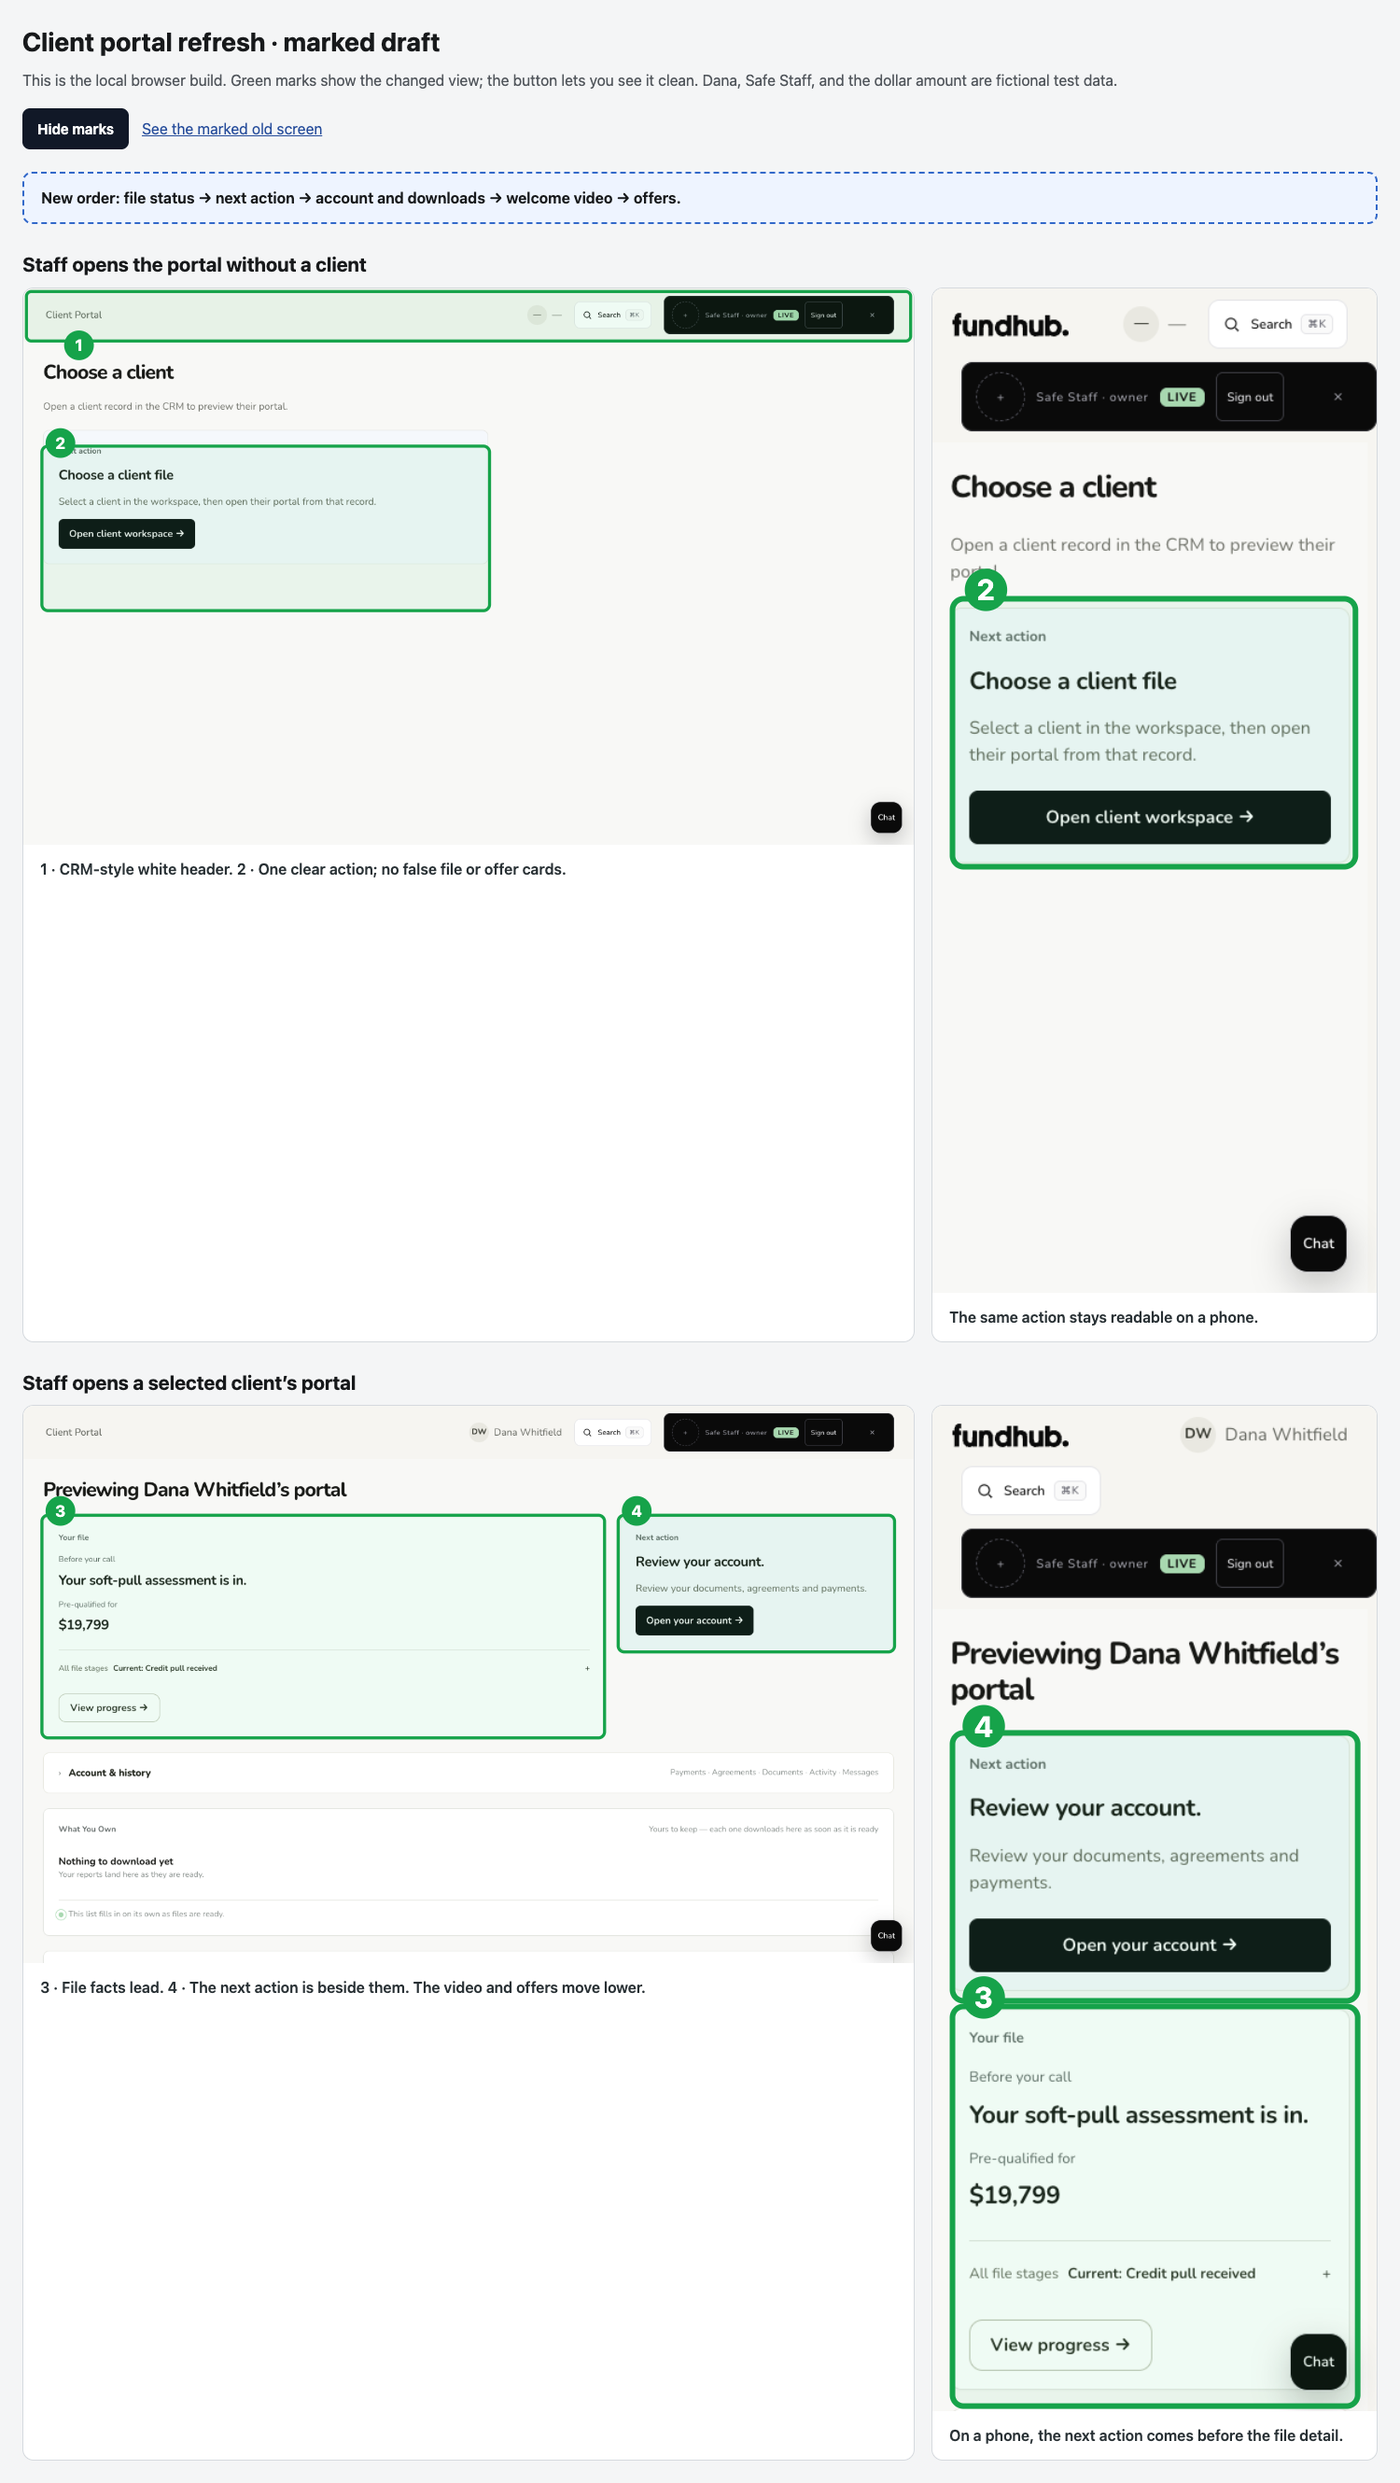
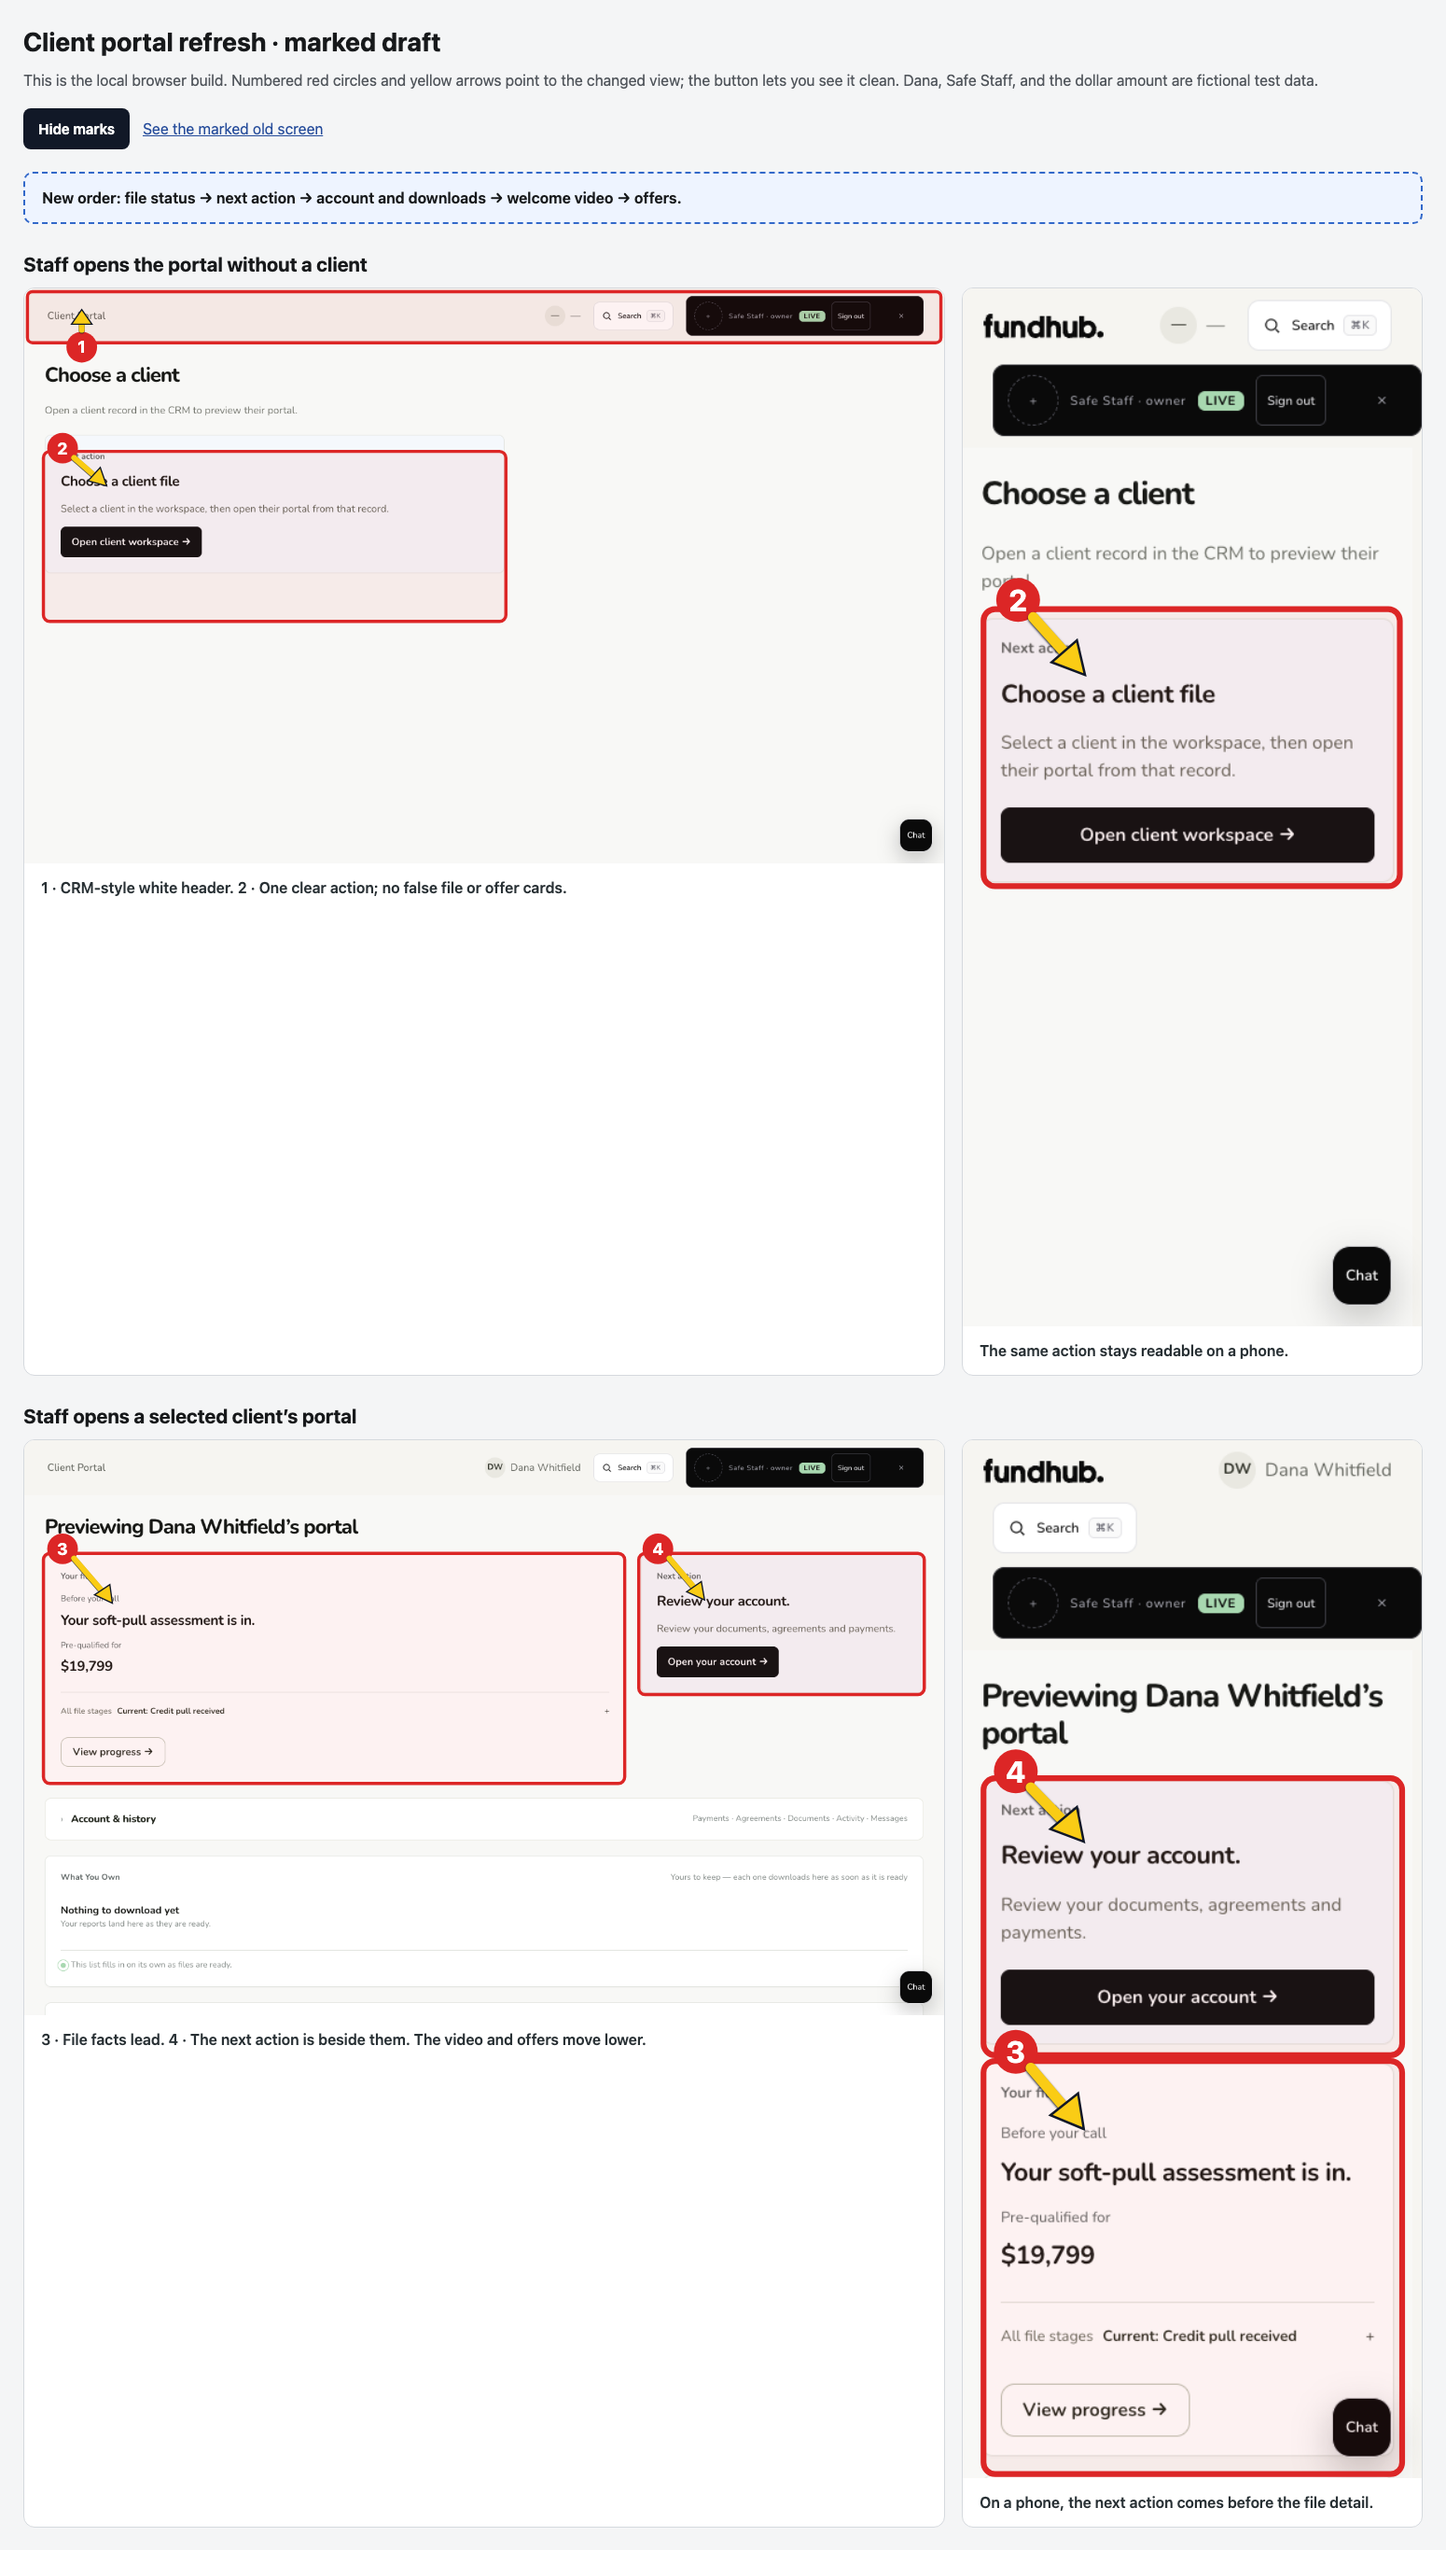
Fix portal no-funding welcome and mark draft review
Keep the honest no-funding welcome visible, align staff preview greeting checks with the draft, and annotate the existing fictional review screenshot with numbered red circles and yellow arrows.

diff --git a/ops/workflows/client-portal-refresh-2026-10-30/green-draft.html b/ops/workflows/client-portal-refresh-2026-10-30/green-draft.html
@@ -12,7 +12,9 @@
   figure{margin:0;background:white;border:1px solid #d5d9de;border-radius:12px;overflow:hidden}
   .shot{position:relative;line-height:0}.shot img{width:100%;display:block}
   .shot svg{position:absolute;inset:0;width:100%;height:100%;overflow:visible}
-  .good{fill:rgba(34,197,94,.07);stroke:#16a34a;stroke-width:5}.num{fill:#16a34a}
+  .good{fill:rgba(220,38,38,.06);stroke:#dc2626;stroke-width:5}.num{fill:#dc2626}
+  .arrow{fill:none;stroke:#facc15;stroke-width:9;stroke-linecap:round;filter:drop-shadow(0 1px 1px #111827)}
+  .arrowhead{fill:#facc15;stroke:#111827;stroke-width:2}
   .numtext{fill:white;font:700 26px system-ui;text-anchor:middle;dominant-baseline:central}
   figcaption{padding:14px 18px;font-weight:600;color:#293135}
   .hide-marks svg{display:none}
@@ -20,25 +22,25 @@
 </style>
 <main>
   <h1>Client portal refresh · marked draft</h1>
-  <p>This is the local browser build. Green marks show the changed view; the button lets you see it clean. Dana, Safe Staff, and the dollar amount are fictional test data.</p>
+  <p>This is the local browser build. Numbered red circles and yellow arrows point to the changed view; the button lets you see it clean. Dana, Safe Staff, and the dollar amount are fictional test data.</p>
   <div class="tools"><button id="toggle" type="button">Hide marks</button><a href="red-draft.html">See the marked old screen</a></div>
   <div class="order">New order: file status → next action → account and downloads → welcome video → offers.</div>
   <h2>Staff opens the portal without a client</h2>
   <div class="grid">
     <figure><div class="shot"><img src="page_client_portal-staff-choose-1440.png" alt="Desktop staff portal with choose-client action">
-      <svg viewBox="0 0 1440 900" aria-hidden="true"><rect class="good" x="5" y="5" width="1430" height="80" rx="8"/><circle class="num" cx="90" cy="92" r="24"/><text class="numtext" x="90" y="92">1</text><rect class="good" x="30" y="255" width="724" height="266" rx="10"/><circle class="num" cx="60" cy="250" r="24"/><text class="numtext" x="60" y="250">2</text></svg>
+      <svg viewBox="0 0 1440 900" aria-hidden="true"><rect class="good" x="5" y="5" width="1430" height="80" rx="8"/><circle class="num" cx="90" cy="92" r="24"/><text class="numtext" x="90" y="92">1</text><path class="arrow" d="M90 65 L90 42"/><path class="arrowhead" d="M90 33 L74 56 L106 56 Z"/><rect class="good" x="30" y="255" width="724" height="266" rx="10"/><circle class="num" cx="60" cy="250" r="24"/><text class="numtext" x="60" y="250">2</text><path class="arrow" d="M78 265 L117 299"/><path class="arrowhead" d="M129 309 L100 301 L119 280 Z"/></svg>
     </div><figcaption>1 · CRM-style white header. 2 · One clear action; no false file or offer cards.</figcaption></figure>
     <figure><div class="shot"><img src="page_client_portal-staff-choose-390.png" alt="Phone staff portal with choose-client action">
-      <svg viewBox="0 0 390 900" aria-hidden="true"><rect class="good" x="14" y="278" width="361" height="240" rx="10"/><circle class="num" cx="44" cy="270" r="19"/><text class="numtext" x="44" y="270">2</text></svg>
+      <svg viewBox="0 0 390 900" aria-hidden="true"><rect class="good" x="14" y="278" width="361" height="240" rx="10"/><circle class="num" cx="44" cy="270" r="19"/><text class="numtext" x="44" y="270">2</text><path class="arrow" d="M57 285 L92 324"/><path class="arrowhead" d="M102 335 L73 324 L95 305 Z"/></svg>
     </div><figcaption>The same action stays readable on a phone.</figcaption></figure>
   </div>
   <h2>Staff opens a selected client’s portal</h2>
   <div class="grid">
     <figure><div class="shot"><img src="page_client_portal-staff-preview-1440.png" alt="Desktop selected-client portal with status and next action first">
-      <svg viewBox="0 0 1440 900" aria-hidden="true"><rect class="good" x="30" y="177" width="910" height="360" rx="10"/><circle class="num" cx="60" cy="170" r="24"/><text class="numtext" x="60" y="170">3</text><rect class="good" x="962" y="177" width="447" height="221" rx="10"/><circle class="num" cx="992" cy="170" r="24"/><text class="numtext" x="992" y="170">4</text></svg>
+      <svg viewBox="0 0 1440 900" aria-hidden="true"><rect class="good" x="30" y="177" width="910" height="360" rx="10"/><circle class="num" cx="60" cy="170" r="24"/><text class="numtext" x="60" y="170">3</text><path class="arrow" d="M78 185 L128 243"/><path class="arrowhead" d="M138 255 L110 242 L134 226 Z"/><rect class="good" x="962" y="177" width="447" height="221" rx="10"/><circle class="num" cx="992" cy="170" r="24"/><text class="numtext" x="992" y="170">4</text><path class="arrow" d="M1010 185 L1055 238"/><path class="arrowhead" d="M1065 250 L1037 237 L1060 221 Z"/></svg>
     </div><figcaption>3 · File facts lead. 4 · The next action is beside them. The video and offers move lower.</figcaption></figure>
     <figure><div class="shot"><img src="page_client_portal-staff-preview-390.png" alt="Phone selected-client portal with next action and file status">
-      <svg viewBox="0 0 390 900" aria-hidden="true"><rect class="good" x="14" y="293" width="363" height="240" rx="10"/><circle class="num" cx="42" cy="287" r="19"/><text class="numtext" x="42" y="287">4</text><rect class="good" x="14" y="538" width="363" height="358" rx="10"/><circle class="num" cx="42" cy="530" r="19"/><text class="numtext" x="42" y="530">3</text></svg>
+      <svg viewBox="0 0 390 900" aria-hidden="true"><rect class="good" x="14" y="293" width="363" height="240" rx="10"/><circle class="num" cx="42" cy="287" r="19"/><text class="numtext" x="42" y="287">4</text><path class="arrow" d="M55 301 L90 337"/><path class="arrowhead" d="M101 348 L72 337 L95 318 Z"/><rect class="good" x="14" y="538" width="363" height="358" rx="10"/><circle class="num" cx="42" cy="530" r="19"/><text class="numtext" x="42" y="530">3</text><path class="arrow" d="M55 544 L90 585"/><path class="arrowhead" d="M101 597 L72 585 L96 566 Z"/></svg>
     </div><figcaption>On a phone, the next action comes before the file detail.</figcaption></figure>
   </div>
 </main>

diff --git a/public/app/client-portal-ios.css b/public/app/client-portal-ios.css
@@ -125,7 +125,8 @@ body.fh-astra-portal[data-portal-state="empty-staff"] #portal-home .page > :not(
 body.fh-astra-portal[data-portal-state="empty-client"] #portal-home .page > :not(#greeting):not(#greeting-sub-pre):not(#portal-signin-door){display:none!important}
 body.fh-astra-portal[data-portal-state="loading"] #greeting-sub-pre,
 body.fh-astra-portal[data-portal-state="empty-staff"] #greeting-sub-pre,
-body.fh-astra-portal[data-portal-state="empty-client"] #greeting-sub-pre{display:block!important;grid-column:1/-1}
+body.fh-astra-portal[data-portal-state="empty-client"] #greeting-sub-pre,
+body.fh-astra-portal.no-funding #greeting-sub-pre{display:block!important;grid-column:1/-1}
 body.fh-astra.fh-astra-portal[data-portal-state="empty-staff"] #portal-home .cp-next-action{display:flex!important;grid-column:1/8;order:0;max-width:720px}
 @media(max-width:900px){body.fh-astra.fh-astra-portal[data-portal-state="empty-staff"] #portal-home .cp-next-action{grid-column:1/-1;max-width:none}}
 
